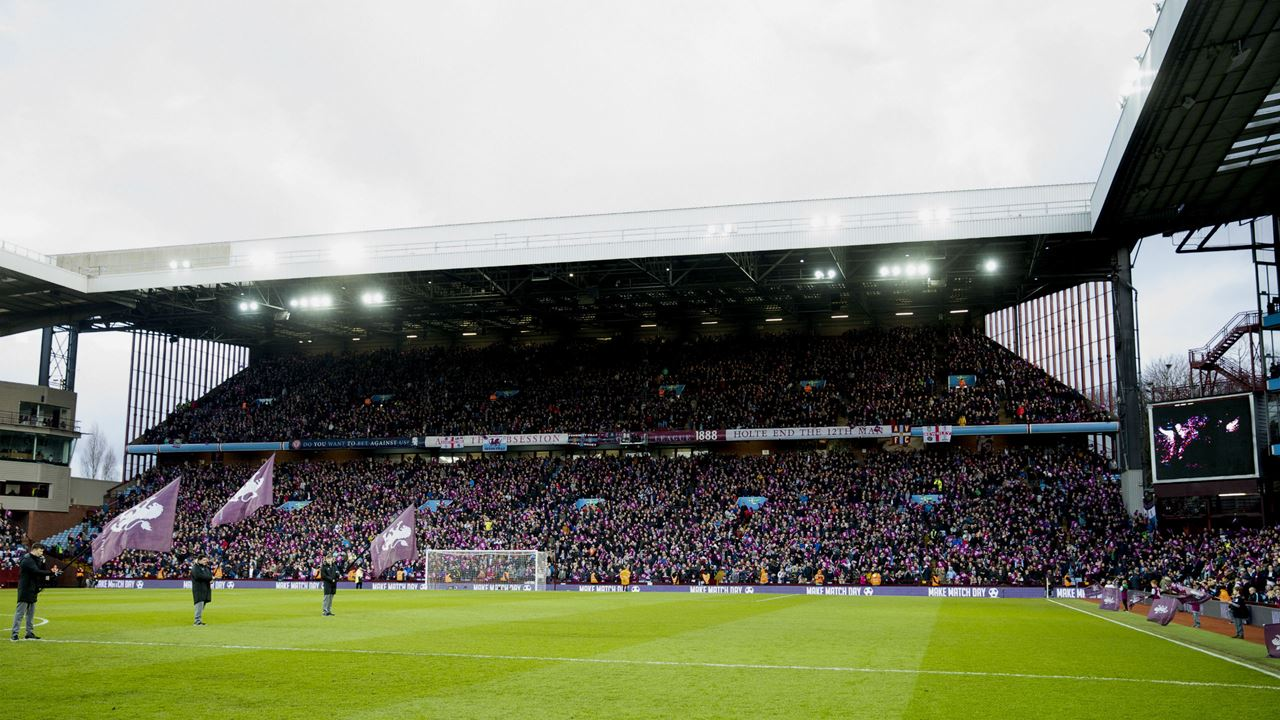
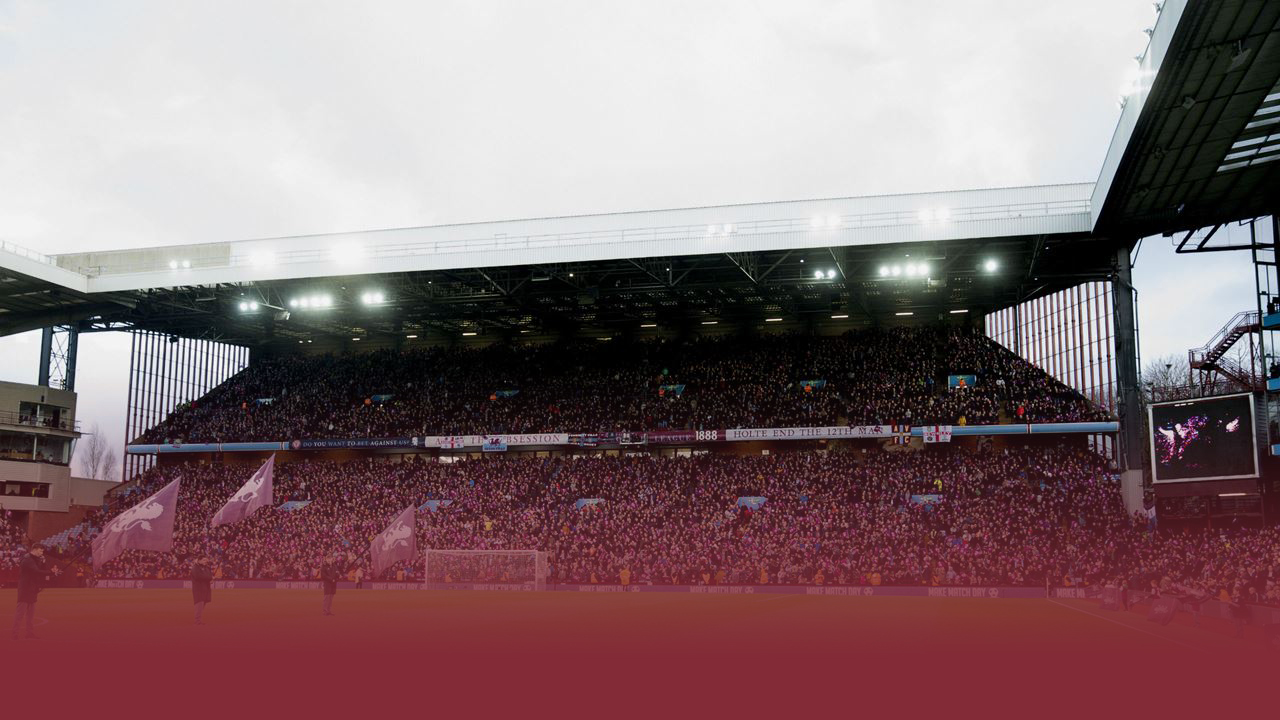
index-section2-start

diff --git a/index.html b/index.html
@@ -113,20 +113,20 @@
           
           
           <div class="landing" id="section1">
-              <div data-aos="fade-down" class="row">
-                  <div class="col l12 m12 s12">
-                      <h1 class="title">Aston Villa 1874</h1>
-                  </div>
-                  <div class="col l12 m12 s12">
-                    <a href="#section2" id="arrow"><i class="medium material-icons icon-black hvr-hang">keyboard_arrow_down</i></a>
-                  </div>
-              </div>
+              <!--<div data-aos="fade-down" class="row">-->
+                  <!--<div class="col l12 m12 s12">-->
+              <h1 data-aos="fade-down" data-aos-duration="3000" class="title">Aston Villa 1874</h1>
+                  <!--</div>-->
+                  <!--<div class="col l12 m12 s12">-->
+                    <a href="#section2" id="arrow"><i class="downarrow medium material-icons icon-black hvr-hang">keyboard_arrow_down</i></a>
+                  <!--</div>-->
+              <!--</div>-->
           </div>
           
           <div class="about" id="section2">
               <div class="row">
                   <div class="col l12 m12 s12">
-                      <h1 class="abouttitle">Pride, Passion, Purpose</h1>
+                      <h1 data-aos="fade-down" data-aos-duration="3000" data-aos-offset="500" class="abouttitle">Pride, Passion, Purpose</h1>
                   </div>
               </div>
           </div>

diff --git a/css/indexcss.css b/css/indexcss.css
@@ -51,12 +51,17 @@ nav {
 
 nav > .nav-wrapper > ul > li > a {
     font-family: 'Inconsolata', monospace;
-    color: black;
+    color: #832b37;
     font-weight: bolder;
 }
 
 .switch {
     margin-left: 5px;
+}
+
+.sidenav li a {
+    font-family: 'Inconsolata', monospace;
+    color: #832b37;
 }
 
 
@@ -79,10 +84,20 @@ nav > .nav-wrapper > ul > li > a {
 }
 
 .title {
-    margin-top: 300px;
-    font-size: 120px;
+    margin-top: 320px;
+    font-size: 200px;
     font-family: 'Satisfy', cursive;
     color: white;
+    z-index: 5;
+    text-shadow: 5px 5px #832b37, 7px 7px #2cb2ff;
+}
+
+.downarrow {
+    position: absolute;
+    bottom: 50px;
+    text-decoration: none;
+    color: #fff;
+    left: 45%;
 }
 
 .about {
@@ -92,7 +107,7 @@ nav > .nav-wrapper > ul > li > a {
 }
 
 #section2 {
-    background-color: black;
+    background-color: #832b37;
 }
 
 .abouttitle {
@@ -100,16 +115,19 @@ nav > .nav-wrapper > ul > li > a {
     font-size: 120px;
     text-align: center;
     color: white;
+    text-shadow: 5px 5px #832b37, 7px 7px #2cb2ff;
 }
-
-
 
 
 /* Media Tags */
 
 @media all and (max-width: 600px) {
     .title {
-        font-size: 100px;
-        margin-top: 150px;
+        font-size: 75px;
+        margin-top: 190px;
+    }
+    
+    .downarrow {
+        margin-right: 10px;
     }
 }
